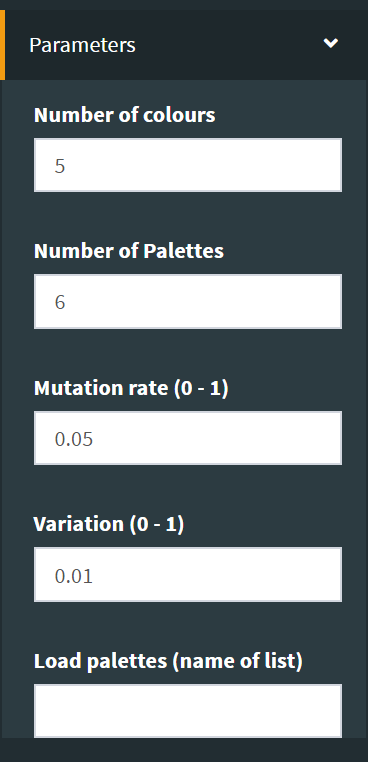
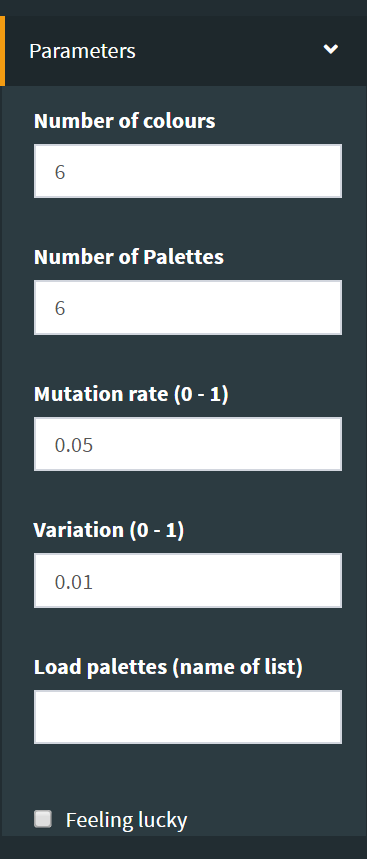
Updated Rmd

diff --git a/README.md b/README.md
@@ -45,6 +45,7 @@ is converging to a similar theme based on your selections, along with
 some variation of each individual colour and a chance of a completely
 random mutation. Selecting only a single parent is convenient to
 generate minor variations on a single palette to tweak the colours.
+Random names are given to each new palette.
 
 <center>
 
@@ -62,7 +63,8 @@ practice.
 </center>
 
 To save a palette, select the desired palette from the check box and
-click ‘save’. The palette is now accessible from
+click ‘save’. A box will appear giving the opportunity to change the
+palette name. The palette is now accessible from
 <code>palette\_box()</code> once the app is closed. You can save
 multiple palettes which will be collected in the palette box. The
 palette box will be refreshed when starting a new session so remember to
@@ -98,10 +100,11 @@ Select the parameters from the drop down in the menu.
   - Mutation rate - Each colour in the palette has a probability of
     random mutation equal to this value (default p = 0.05)
   - Mutation variation - Each colour will vary slightly around it’s
-    original value e.g. like a child not being the same height as either
-    of their parents.
-  - Load an existing palette from the global environment. Object should
-    be list, ideally with names.
+    original value.
+  - Load existing palettes from the global environment. Object should be
+    list, ideally with names i.e. the same format as
+    <code>palette\_box()</code>.
+  - Are you feeling lucky? Select for completely random colours.
 
 When you are happy with your selections, click ‘evolve’
 
